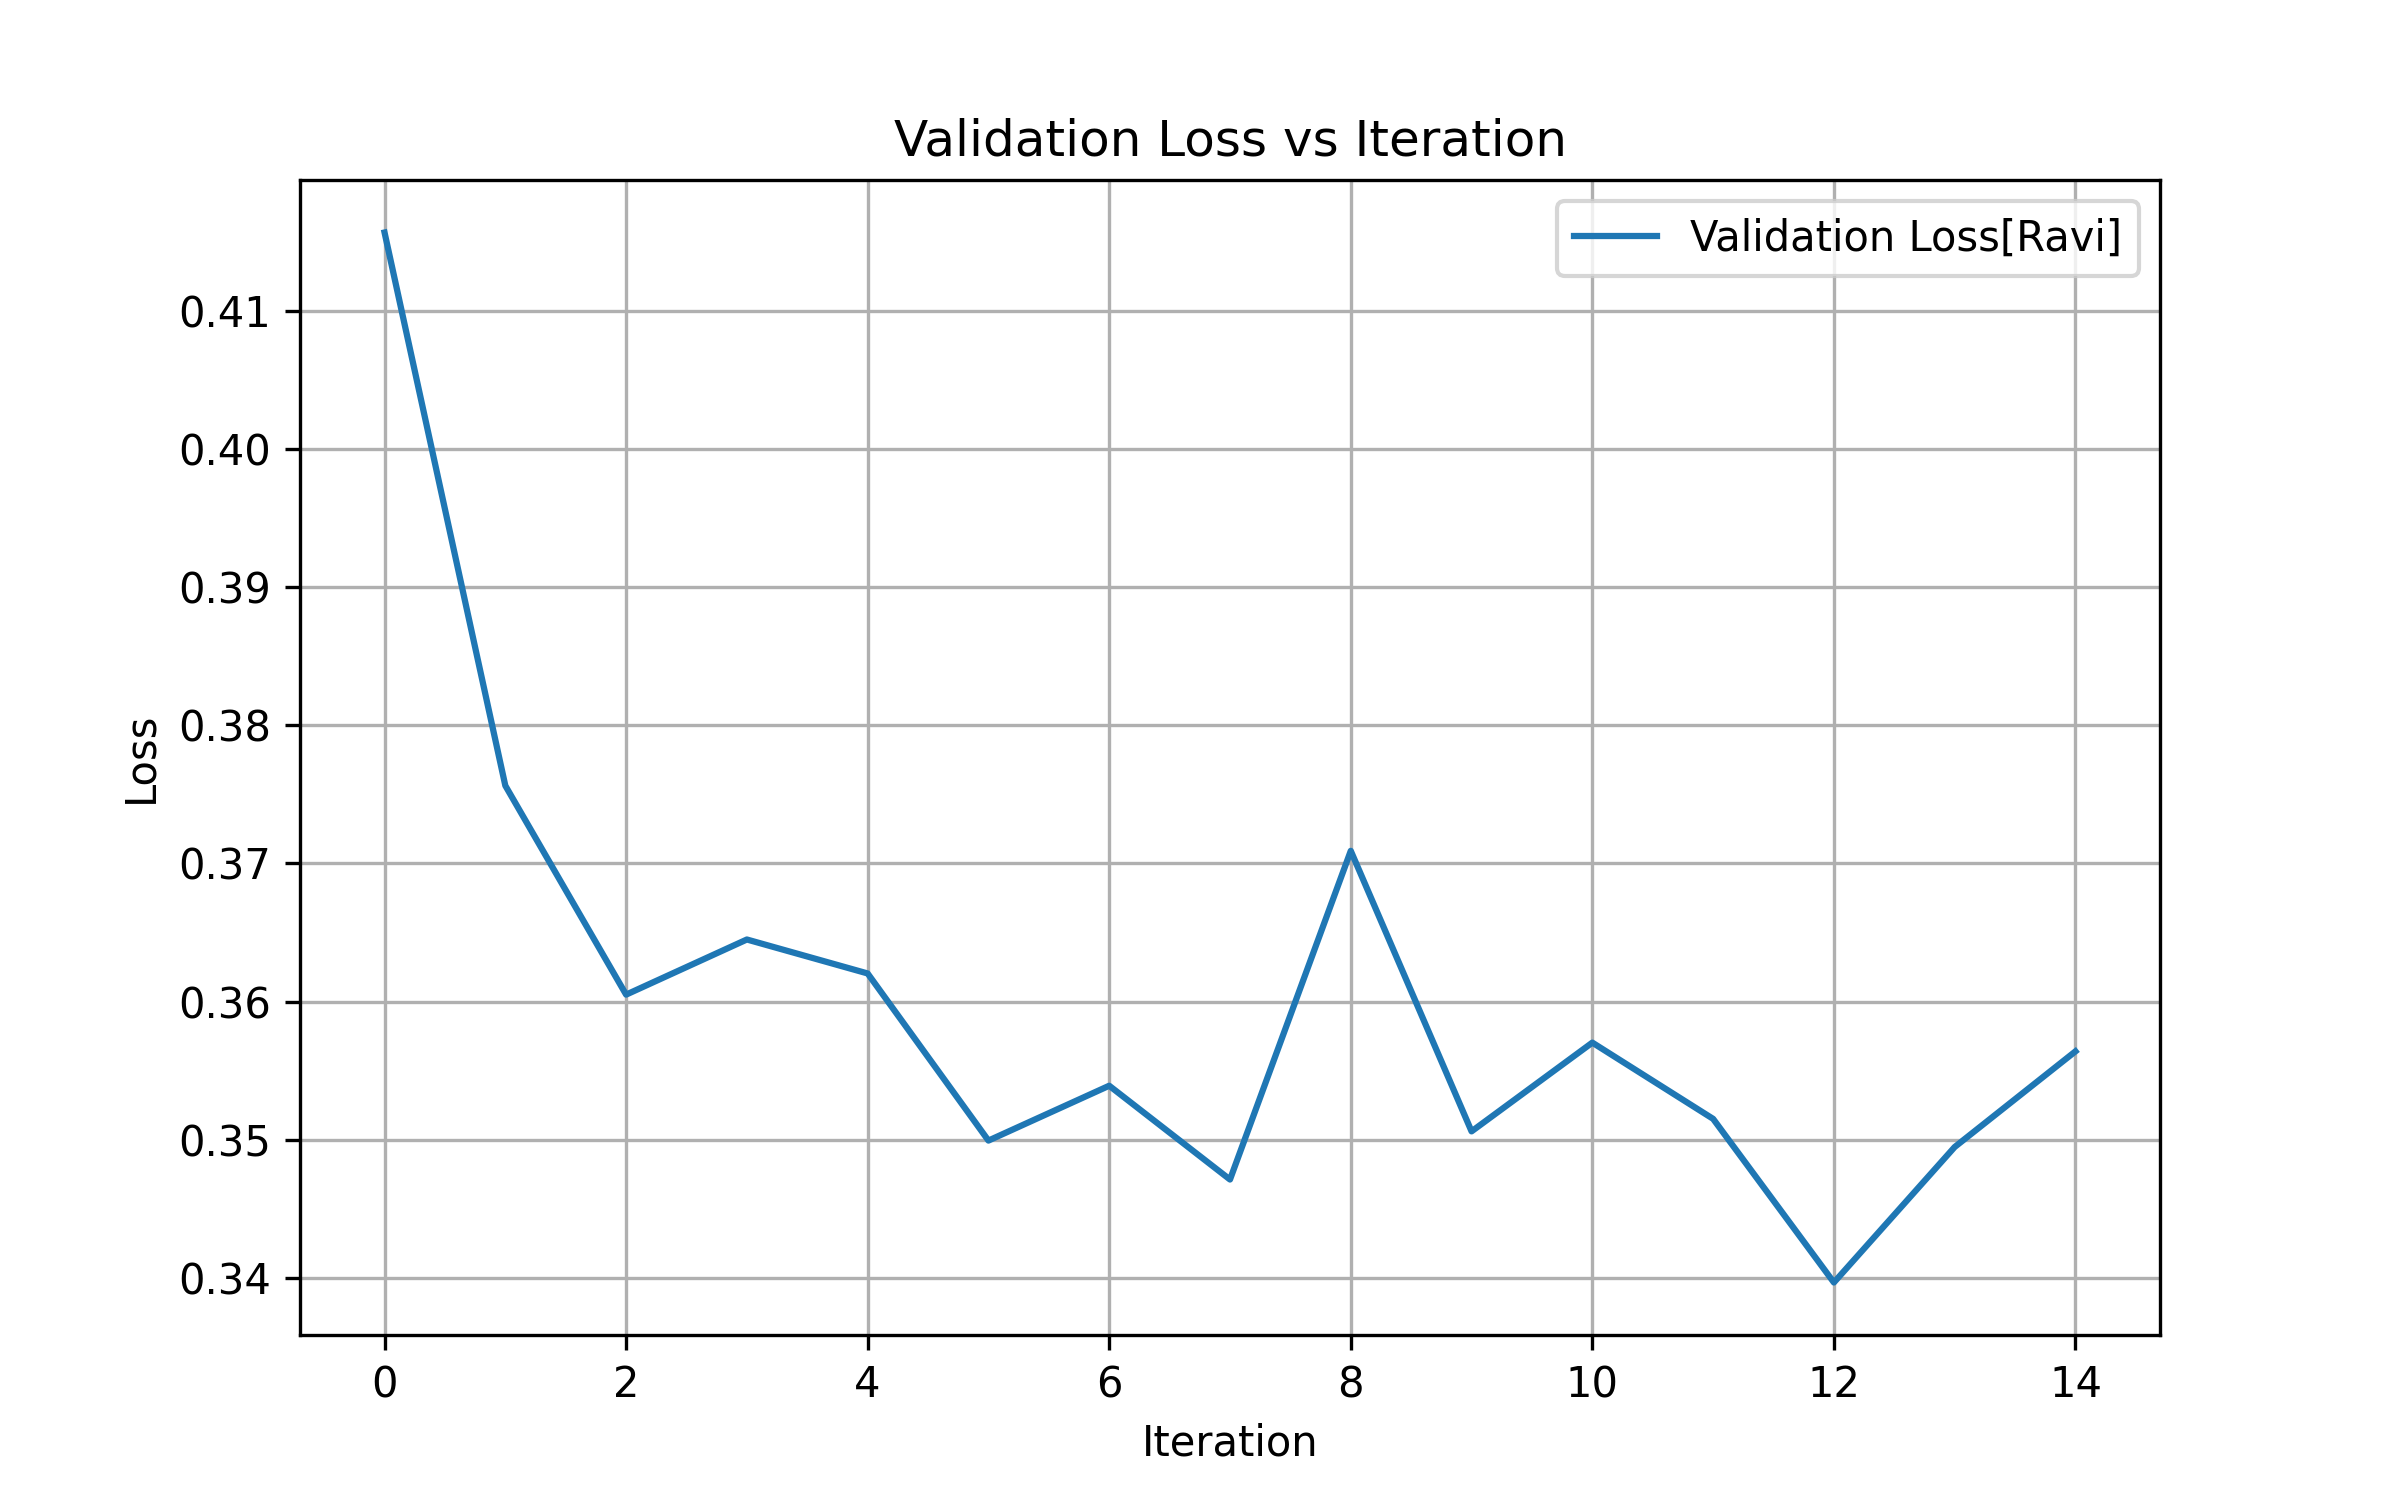
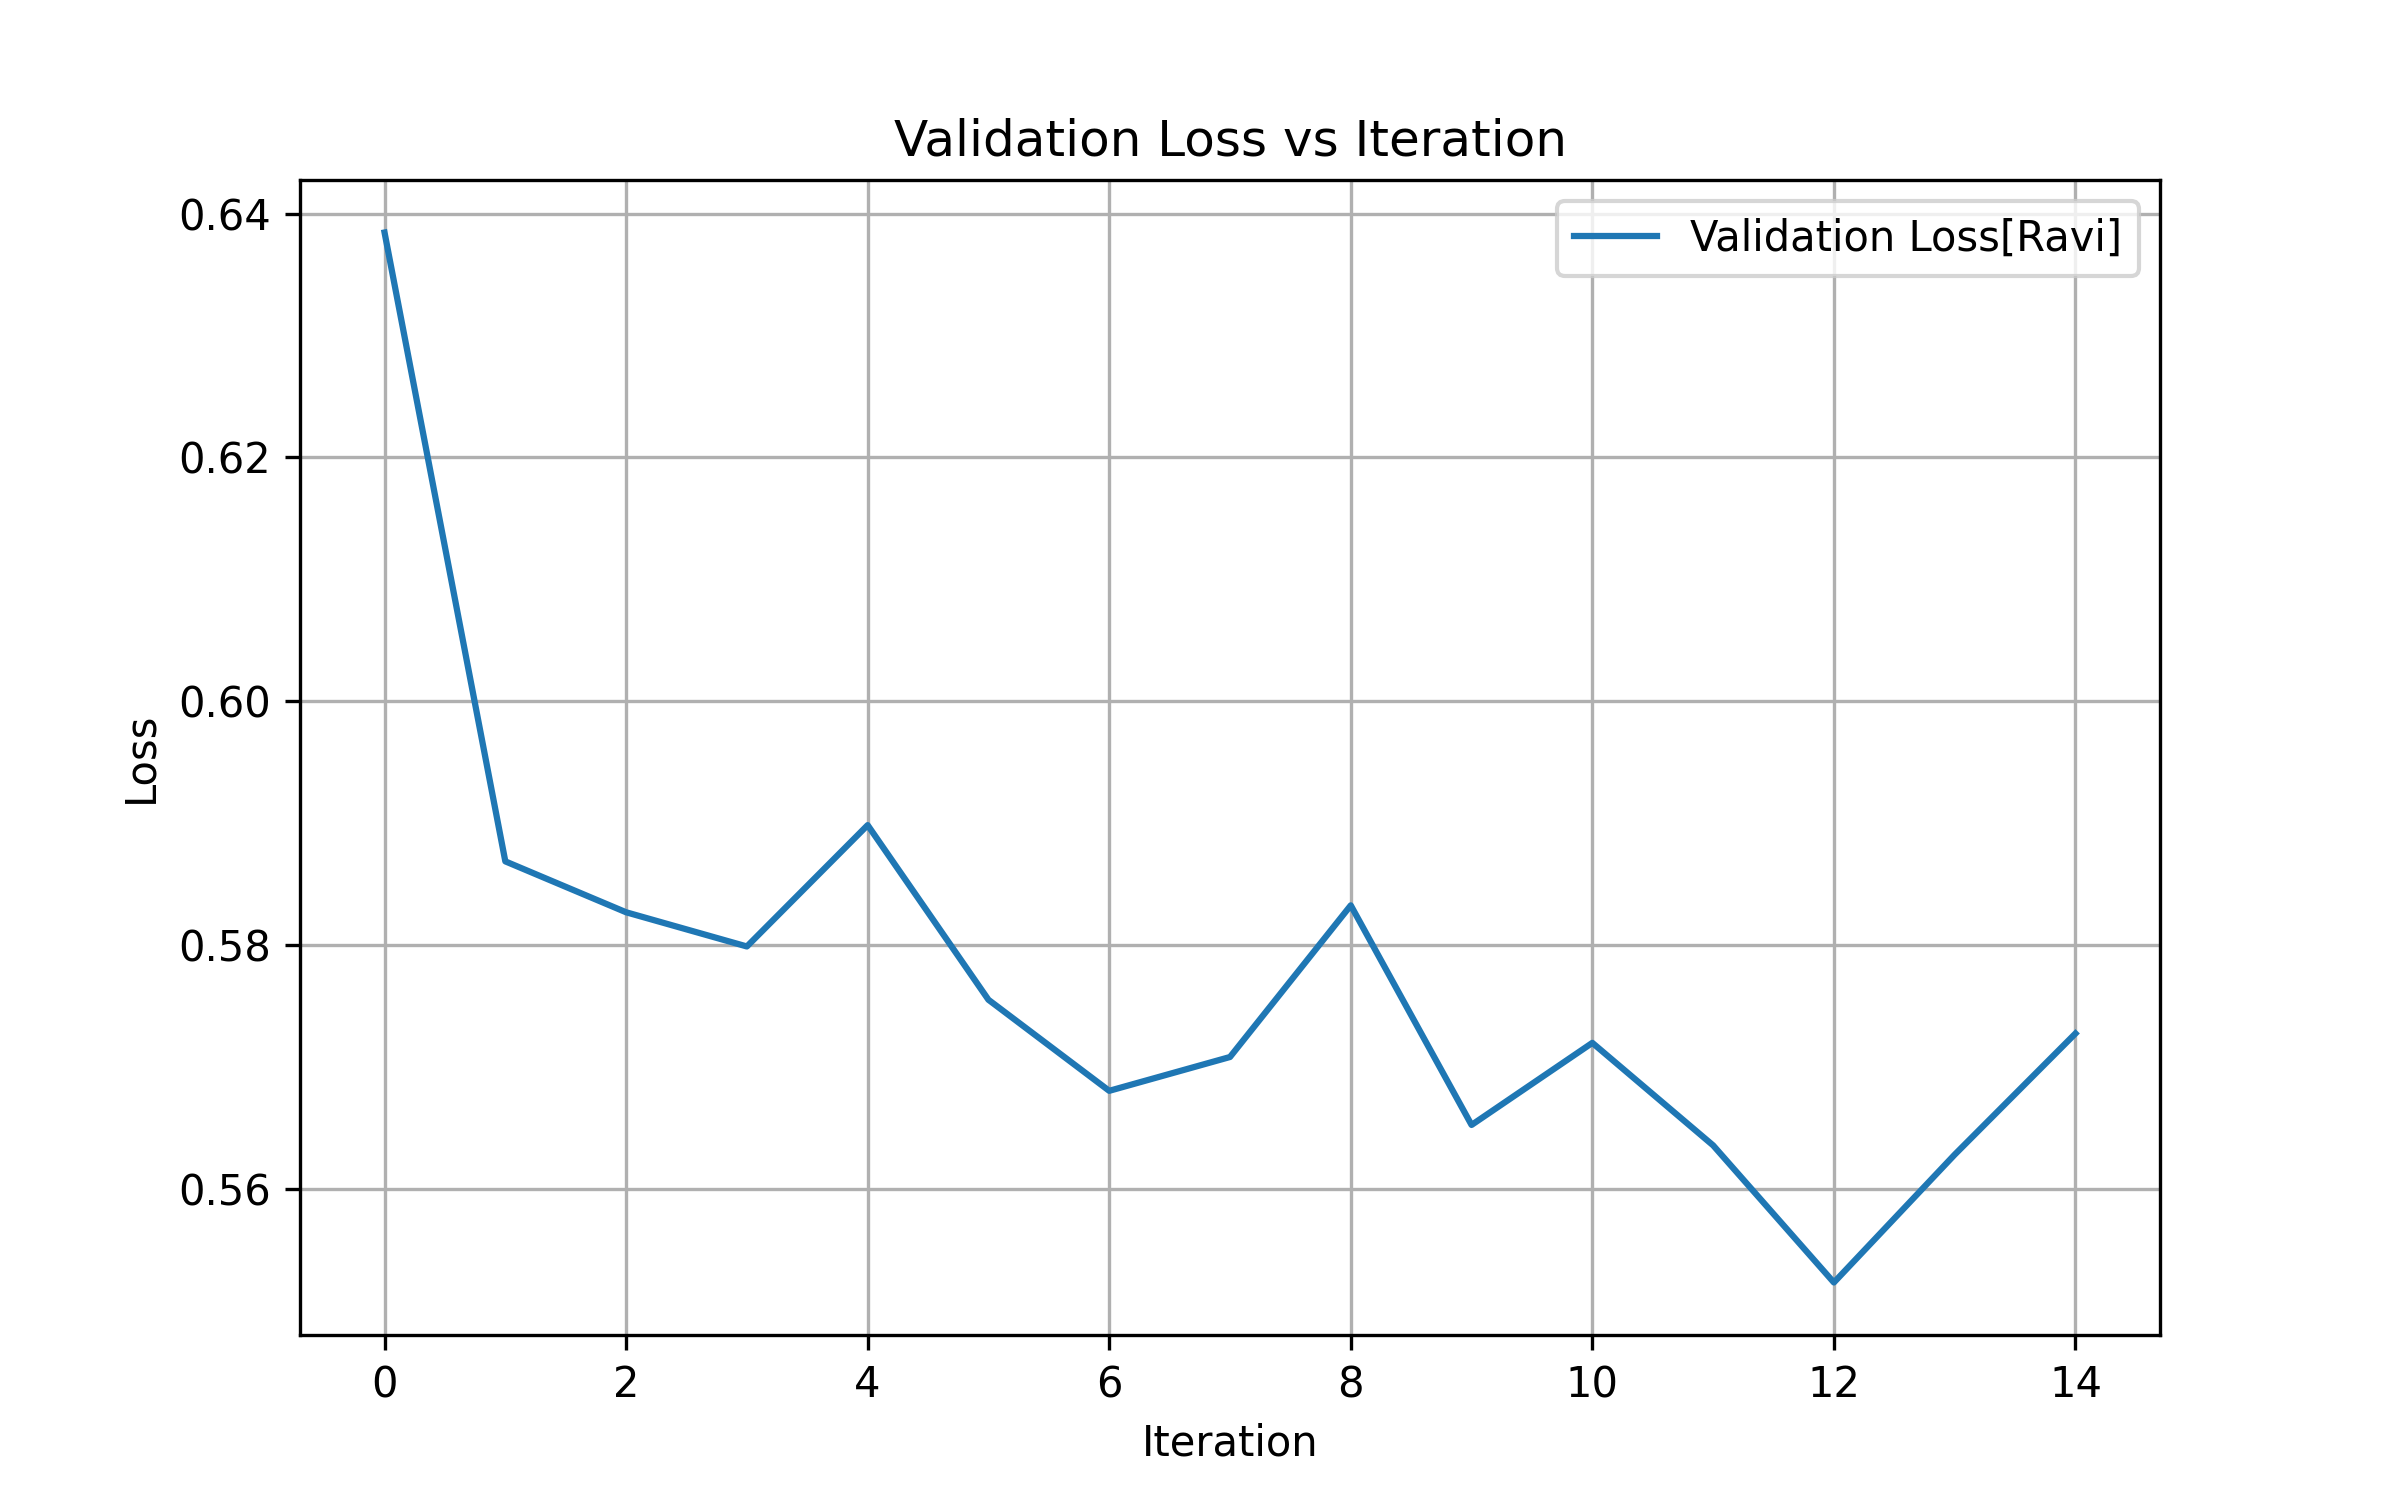
Generated Plots for 3. Need to confirm results with others

diff --git a/Homework #1/problem3.py b/Homework #1/problem3.py
@@ -260,13 +260,13 @@ class softmax_cross_entropy_t:
 #indices_b must be passed as list
 #indices_h must be passed as list
 def check_backward_linear(k, indices_W, indices_b, indices_h):
-    layer = linear_t()
+    layer = linear_t() # Linear Layer
     hl = np.random.randn(1, 392) # Shape: 1 x 392
 
-    # Compute forward pass
+    # Compute forward pass of linear layer
     layer.forward(hl)
 
-    # Set up backward pass
+    # Get Weight and Bias of linear layer
     W = layer.w # Shape: 10 x 392
     b = layer.b # Shape: (10,)
 
@@ -275,7 +275,7 @@ def check_backward_linear(k, indices_W, indices_b, indices_h):
     dhl_plus_1[0, k] = 1 # Shape: 1 x 10
 
     # Compute backward
-    dhl = layer.backward(dhl_plus_1)
+    dhl = layer.backward(dhl_plus_1) # Shape: 1 x 392
     dw = layer.dw # Shape: 10 x 392
     db = layer.db # Shape: (10,)
 
@@ -316,6 +316,8 @@ def test_backward_linear_random_indices():
 
         # Run the gradient check for this k
         check_backward_linear(k, indices_W, indices_b, indices_h)
+
+test_backward_linear_random_indices()
 
 ### Checking ReLU Backward Propagation
 def check_backward_relu(k, indices_h):
@@ -491,18 +493,17 @@ def test_backward_embedding_random_indices():
 ### Initialize all Layers
 l1, l2, l3, l4 = embedding_t(), linear_t(), relu_t(), softmax_cross_entropy_t()
 net = [l1, l2, l3, l4]
+print("Part g: Print shapes of X_train, y_train, X_val, and y_val again")
+print(f"X_train shape -> {X_train.shape}, y_train shape: {y_train.shape}, X_val shape -> {X_val.shape}, y_val shape: {y_val.shape}")
 
-print("Part g: Print shapes of X_train and y_train again")
-print(f"X_train shape -> {X_train.shape}, y_train shape: {y_train.shape}")
-
-def validate(l1_w, l1_b, l2_w, l2_b):
-    # 1. iterate over mini-batches from the validation dataset
-    # note that this should not be done randomly, we want to check
-    # every image only once
-
+# X: Full set of samples
+# y: Full set of labels
+# B: Batch Size
+def validate(l1_w, l1_b, l2_w, l2_b, X, y, B):
+    # 1. iterate over mini-batches from the dataset (X, y)
     loss, tot_error = 0, 0
-    for i in range(0, 5000, 32):
-        X_batch, y_batch = X_val[i: i + 32], y_val[i: i + 32]
+    for i in range(0, X.shape[0], B):
+        X_batch, y_batch = X[i: i + B], y[i: i + B]
 
         # Compute forward pass
         h1 = embedding_utility(X_batch, l1_w, l1_b)
@@ -511,12 +512,11 @@ def validate(l1_w, l1_b, l2_w, l2_b):
         batch_loss, batch_error = softmax_cross_entropy_utility(h3, y_batch)
 
         # Accumulate
-        B = X_batch.shape[0]
         loss += batch_loss * B
         tot_error += batch_error * B
     
-    avg_loss = loss / X_val.shape[0]
-    avg_error = tot_error/ X_val.shape[0]
+    avg_loss = loss / X.shape[0]
+    avg_error = tot_error/ X.shape[0]
     return avg_loss, avg_error
 
 
@@ -555,25 +555,26 @@ for t in range(epochs):
     # 5. Gather Backprop gradients
     dw1, db1 = l1.dw, l1.db
     dw2, db2 = l2.dw, l2.db
-
-    # 6. Print some quantities for logging
-    if (t + 1) % 100 == 0:
-        print(f"Epoch: {t + 1}, Loss: {ell}, Error: {error}")
     
-    training_losses.append(ell)
-    training_errors.append(error)
+    # Store training loss/error every 100 weight updates
+    if (t + 1) % 100 == 0:
+        training_loss, training_error = validate(l1.w, l1.b, l2.w, l2.b, X_train, y_train, B)
+        print(f"Epoch: {t + 1}, Training Loss: {training_loss}, Training Error: {training_error}")
+        training_losses.append(training_loss)
+        training_errors.append(training_error)
+    
+    # 6. Store validation loss/error every 1000 weight updates
+    if (t + 1) % 1000 == 0:
+        validation_loss, validation_error = validate(l1.w, l1.b, l2.w, l2.b, X_val, y_val, B)
+        print(f"Epoch: {t + 1}, Validation Loss: {validation_loss}, Validation Error: {validation_error}")
+        validation_losses.append(validation_loss)
+        validation_errors.append(validation_error)
 
     # 7. one step of SGD
     l1.w = l1.w - lr*dw1
     l1.b = l1.b - lr*db1
     l2.w = l2.w - lr*dw2
     l2.b = l2.b - lr*db2
-
-    # 8. Store validation loss/error every 1000 weight updates
-    if (t + 1) % 1000 == 0:
-        validation_loss, validation_error = validate(l1.w, l1.b, l2.w, l2.b)
-        validation_losses.append(validation_loss)
-        validation_errors.append(validation_error)
 
 # Store plot of training loss
 plt.figure(figsize=(8, 5))
@@ -585,6 +586,16 @@ plt.legend()
 plt.grid(True)
 plt.savefig('training_loss_plot_ravi.png', dpi=300)
 
+# Store plot of training error
+plt.figure(figsize=(8, 5))
+plt.plot(training_errors, label='Training Error[Ravi]')
+plt.xlabel('Iteration')
+plt.ylabel('Error')
+plt.title('Training Error vs Iteration')
+plt.legend()
+plt.grid(True)
+plt.savefig('training_error_plot_ravi.png', dpi=300)
+
 # Store plot of validation loss
 plt.figure(figsize=(8, 5))
 plt.plot(validation_losses, label='Validation Loss[Ravi]')
@@ -595,11 +606,22 @@ plt.legend()
 plt.grid(True)
 plt.savefig('validation_loss_plot_ravi.png', dpi=300)
 
+# Store plot of validation error
+plt.figure(figsize=(8, 5))
+plt.plot(validation_errors, label='Validation Error[Ravi]')
+plt.xlabel('Iteration')
+plt.ylabel('Error')
+plt.title('Validation Error vs Iteration')
+plt.legend()
+plt.grid(True)
+plt.savefig('validation_error_plot_ravi.png', dpi=300)
+
+
 # Print Final Metrics
 print(f"Final Training Error: {training_errors[-1]}, Final Training Loss: {training_losses[-1]}")
 print(f"Final Validation Error: {validation_errors[-1]}, Final Validation Loss: {validation_losses[-1]}")
 
-### Test Implementation using PyTorch
+### Part (i): Test Implementation using PyTorch
 import torch
 import torch.nn as nn
 import torch.nn.functional as F
@@ -664,12 +686,42 @@ model = NN()
 criterion = nn.CrossEntropyLoss()
 optimizer = optim.SGD(model.parameters(), lr=lr)
 
+def validate_torch(X, y):
+    model.eval()  # set model to evaluation mode
+    tot_loss = 0.0
+    tot_error = 0.0
+
+    with torch.no_grad():  # disable gradient computation
+        for i in range(0, X.shape[0], batch_size):
+            # Get batch
+            X_batch = X[i: i + batch_size]
+            y_batch = y[i: i + batch_size]
+
+            # Forward pass
+            outputs = model(X_batch)
+            loss = criterion(outputs, y_batch)
+
+            # Compute batch error (percentage misclassified)
+            _, predicted = torch.max(outputs, 1)
+            error = (predicted != y_batch).float().mean().item()
+
+            # Accumulate weighted loss and error
+            tot_loss += loss.item() * X_batch.size(0)
+            tot_error += error * X_batch.size(0)
+    
+    # Average over all validation samples
+    avg_loss = tot_loss / X.shape[0]
+    avg_error = tot_error / X.shape[0]
+
+    return avg_loss, avg_error
+
 # Begin the training + validation loop
 training_losses = []
 training_errors = []
 validation_losses = []
 validation_errors = []
 for epoch in range(epochs):
+    # Run Training
     model.train()
     
     # Randomly sample a batch
@@ -677,55 +729,26 @@ for epoch in range(epochs):
     batch_X = X_train_tensor[indices]
     batch_y = y_train_tensor[indices]
     
+    # Zero out gradients
     optimizer.zero_grad()
+
+    ## Obtain loss and do back propagation
     outputs = model(batch_X)
     loss = criterion(outputs, batch_y)
     loss.backward()
     optimizer.step()
-
-    _, predicted = torch.max(outputs, 1)
-    batch_error = (predicted != batch_y).float().mean().item() * 100
-
-    training_losses.append(loss.item())
-    training_errors.append(batch_error)
     
     if (epoch + 1) % 100 == 0:
-        print(f'Epoch [{epoch+1}/{epochs}], Training Loss: {loss.item():.4f}, Training Error: {batch_error:.2f}%')
-    
-    # Run validation every 1000 weight updates
+        avg_train_loss, avg_train_error = validate_torch(X_train_tensor, y_train_tensor)
+        print(f"Epoch: {epoch + 1}, Training Loss: {avg_train_loss}, Training Error: {avg_train_error}")
+        training_losses.append(avg_train_loss)
+        training_errors.append(avg_train_error)
+
     if (epoch + 1) % 1000 == 0:
-        model.eval()  # set model to evaluation mode
-        val_loss = 0.0
-        val_error = 0.0
-        
-        with torch.no_grad():  # disable gradient computation
-            for i in range(0, X_val_tensor.shape[0], batch_size):
-                X_val_batch = X_val_tensor[i: i + batch_size]
-                y_val_batch = y_val_tensor[i: i + batch_size]
-
-                # Forward pass
-                val_outputs = model(X_val_batch)
-                batch_loss = criterion(val_outputs, y_val_batch)
-
-                # Compute batch error (percentage misclassified)
-                _, predicted = torch.max(val_outputs, 1)
-                batch_error = (predicted != y_val_batch).float().mean().item() * 100
-
-                # Accumulate weighted loss and error
-                val_loss += batch_loss.item() * X_val_batch.size(0)
-                val_error += batch_error * X_val_batch.size(0)
-
-        # Average over all validation samples
-        avg_val_loss = val_loss / X_val_tensor.shape[0]
-        avg_val_error = val_error / X_val_tensor.shape[0]
-
-        print(f'--- Validation Loss: {avg_val_loss:.4f}, Validation Error: {avg_val_error:.2f}% ---')
-
+        avg_val_loss, avg_val_error = validate_torch(X_val_tensor, y_val_tensor)
+        print(f"Epoch: {epoch + 1}, Validation Loss: {avg_val_loss}, Validation Error: {avg_val_error}")
         validation_losses.append(avg_val_loss)
-        validation_errors.append(avg_val_error)
-        
-        model.train()  # switch back to training mode
-
+        validation_errors.append(avg_val_error)        
 
 # Plot training + validation losses
 plt.figure(figsize=(8, 5))
@@ -745,3 +768,22 @@ plt.title('Validation Loss vs Iteration')
 plt.legend()
 plt.grid(True)
 plt.savefig('validation_loss_plot_torch.png', dpi=300)
+
+# Plot training + validation errors
+plt.figure(figsize=(8, 5))
+plt.plot(training_errors, label='Training Error[PyTorch]')
+plt.xlabel('Iteration')
+plt.ylabel('Error')
+plt.title('Training Error vs Iteration')
+plt.legend()
+plt.grid(True)
+plt.savefig('training_error_plot_torch.png', dpi=300)
+
+plt.figure(figsize=(8, 5))
+plt.plot(validation_errors, label='Validation Error[PyTorch]')
+plt.xlabel('Iteration')
+plt.ylabel('Error')
+plt.title('Validation Error vs Iteration')
+plt.legend()
+plt.grid(True)
+plt.savefig('validation_error_plot_torch.png', dpi=300)
